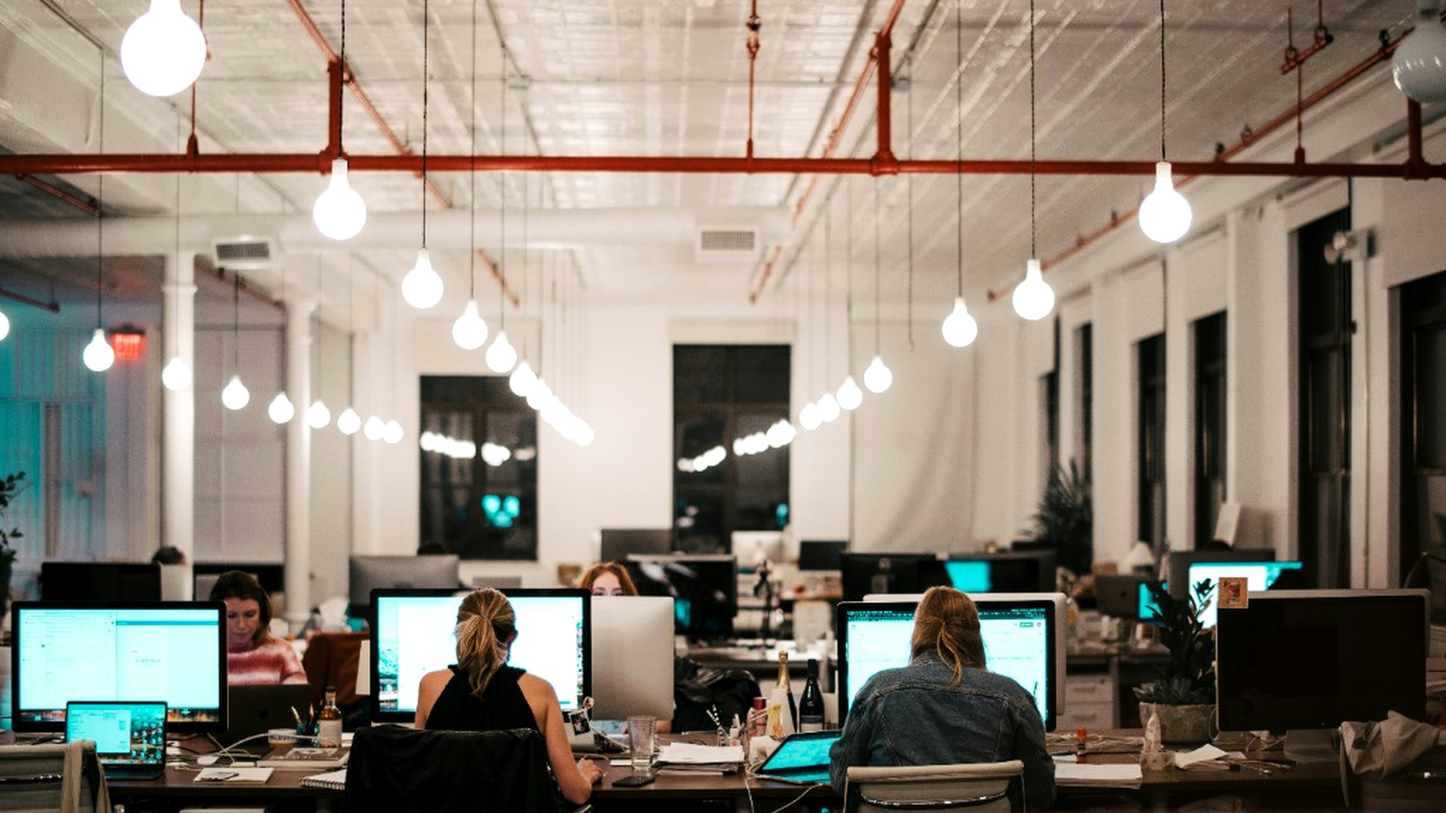
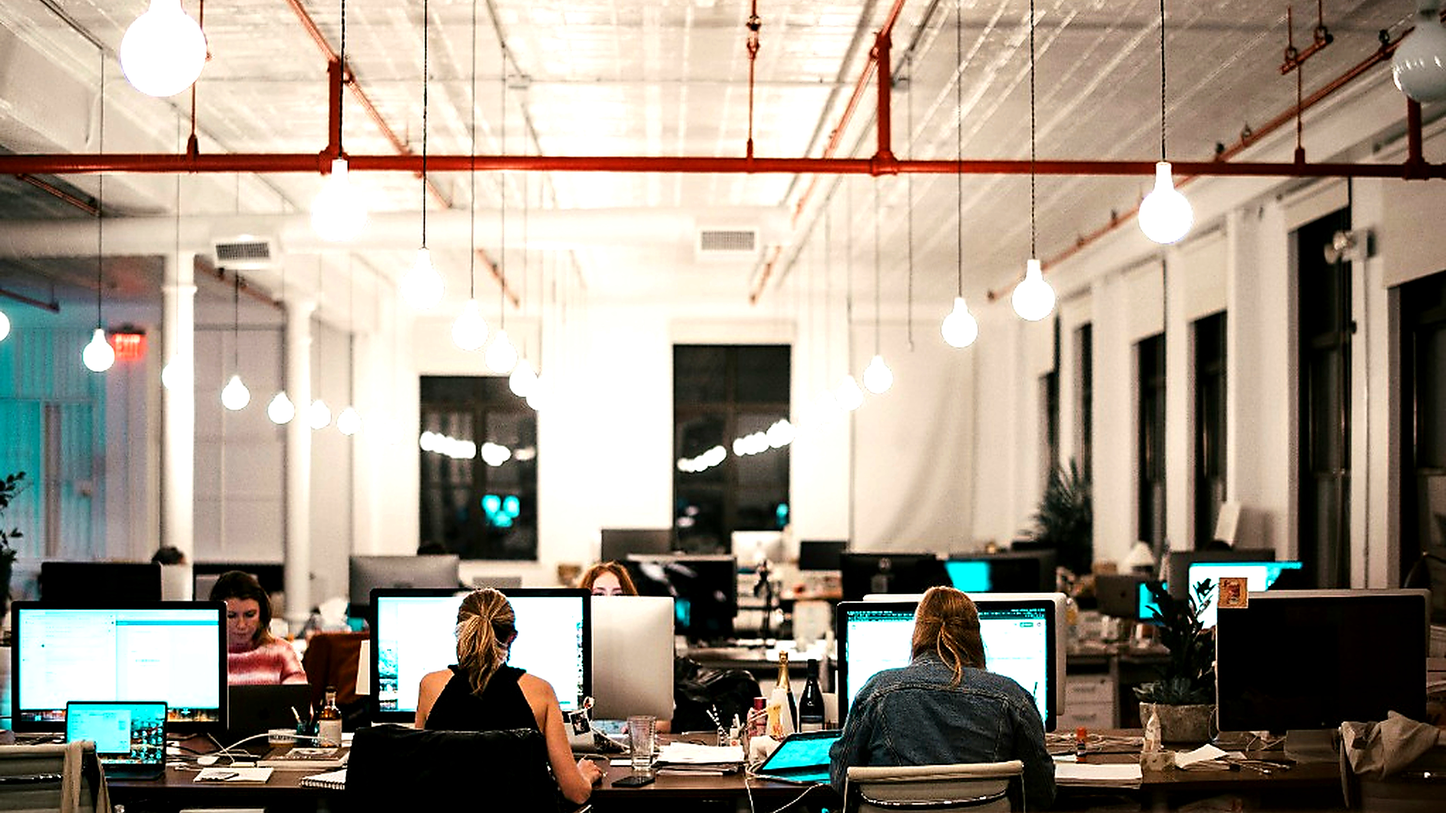
feat(hero): enhance 4K background image sharpness, brightness, and tune overlay transparency

diff --git a/src/styles/globals.css b/src/styles/globals.css
@@ -156,7 +156,7 @@ button:active, a:active {
 .nf-hero-readability-grad {
   position: absolute;
   inset: 0;
-  background: linear-gradient(90deg, rgba(10, 10, 11, 0.96) 0%, rgba(10, 10, 11, 0.84) 42%, rgba(10, 10, 11, 0.24) 68%, transparent 88%);
+  background: linear-gradient(90deg, rgba(10, 10, 11, 0.82) 0%, rgba(10, 10, 11, 0.65) 32%, rgba(10, 10, 11, 0.20) 58%, rgba(10, 10, 11, 0.03) 78%, transparent 100%);
 }
 
 .nf-hero-grid {
@@ -187,7 +187,7 @@ button:active, a:active {
     object-position: center center !important;
   }
   .nf-hero-readability-grad {
-    background: linear-gradient(180deg, rgba(10, 10, 11, 0.92) 0%, rgba(10, 10, 11, 0.72) 48%, rgba(10, 10, 11, 0.96) 100%) !important;
+    background: linear-gradient(180deg, rgba(10, 10, 11, 0.82) 0%, rgba(10, 10, 11, 0.55) 50%, rgba(10, 10, 11, 0.88) 100%) !important;
   }
   .nf-ind-card {
     flex: 0 0 calc(25% - 12px);

diff --git a/src/components/sections/HeroSection.tsx b/src/components/sections/HeroSection.tsx
@@ -93,7 +93,7 @@ export const HeroSection: React.FC = () => {
             position: 'absolute',
             inset: 0,
             background:
-              'linear-gradient(180deg, rgba(10, 10, 11, 0.75) 0%, transparent 20%, transparent 72%, rgba(10, 10, 11, 0.98) 100%)',
+              'linear-gradient(180deg, rgba(10, 10, 11, 0.45) 0%, transparent 15%, transparent 82%, rgba(10, 10, 11, 0.88) 100%)',
           }}
         />
       </div>
